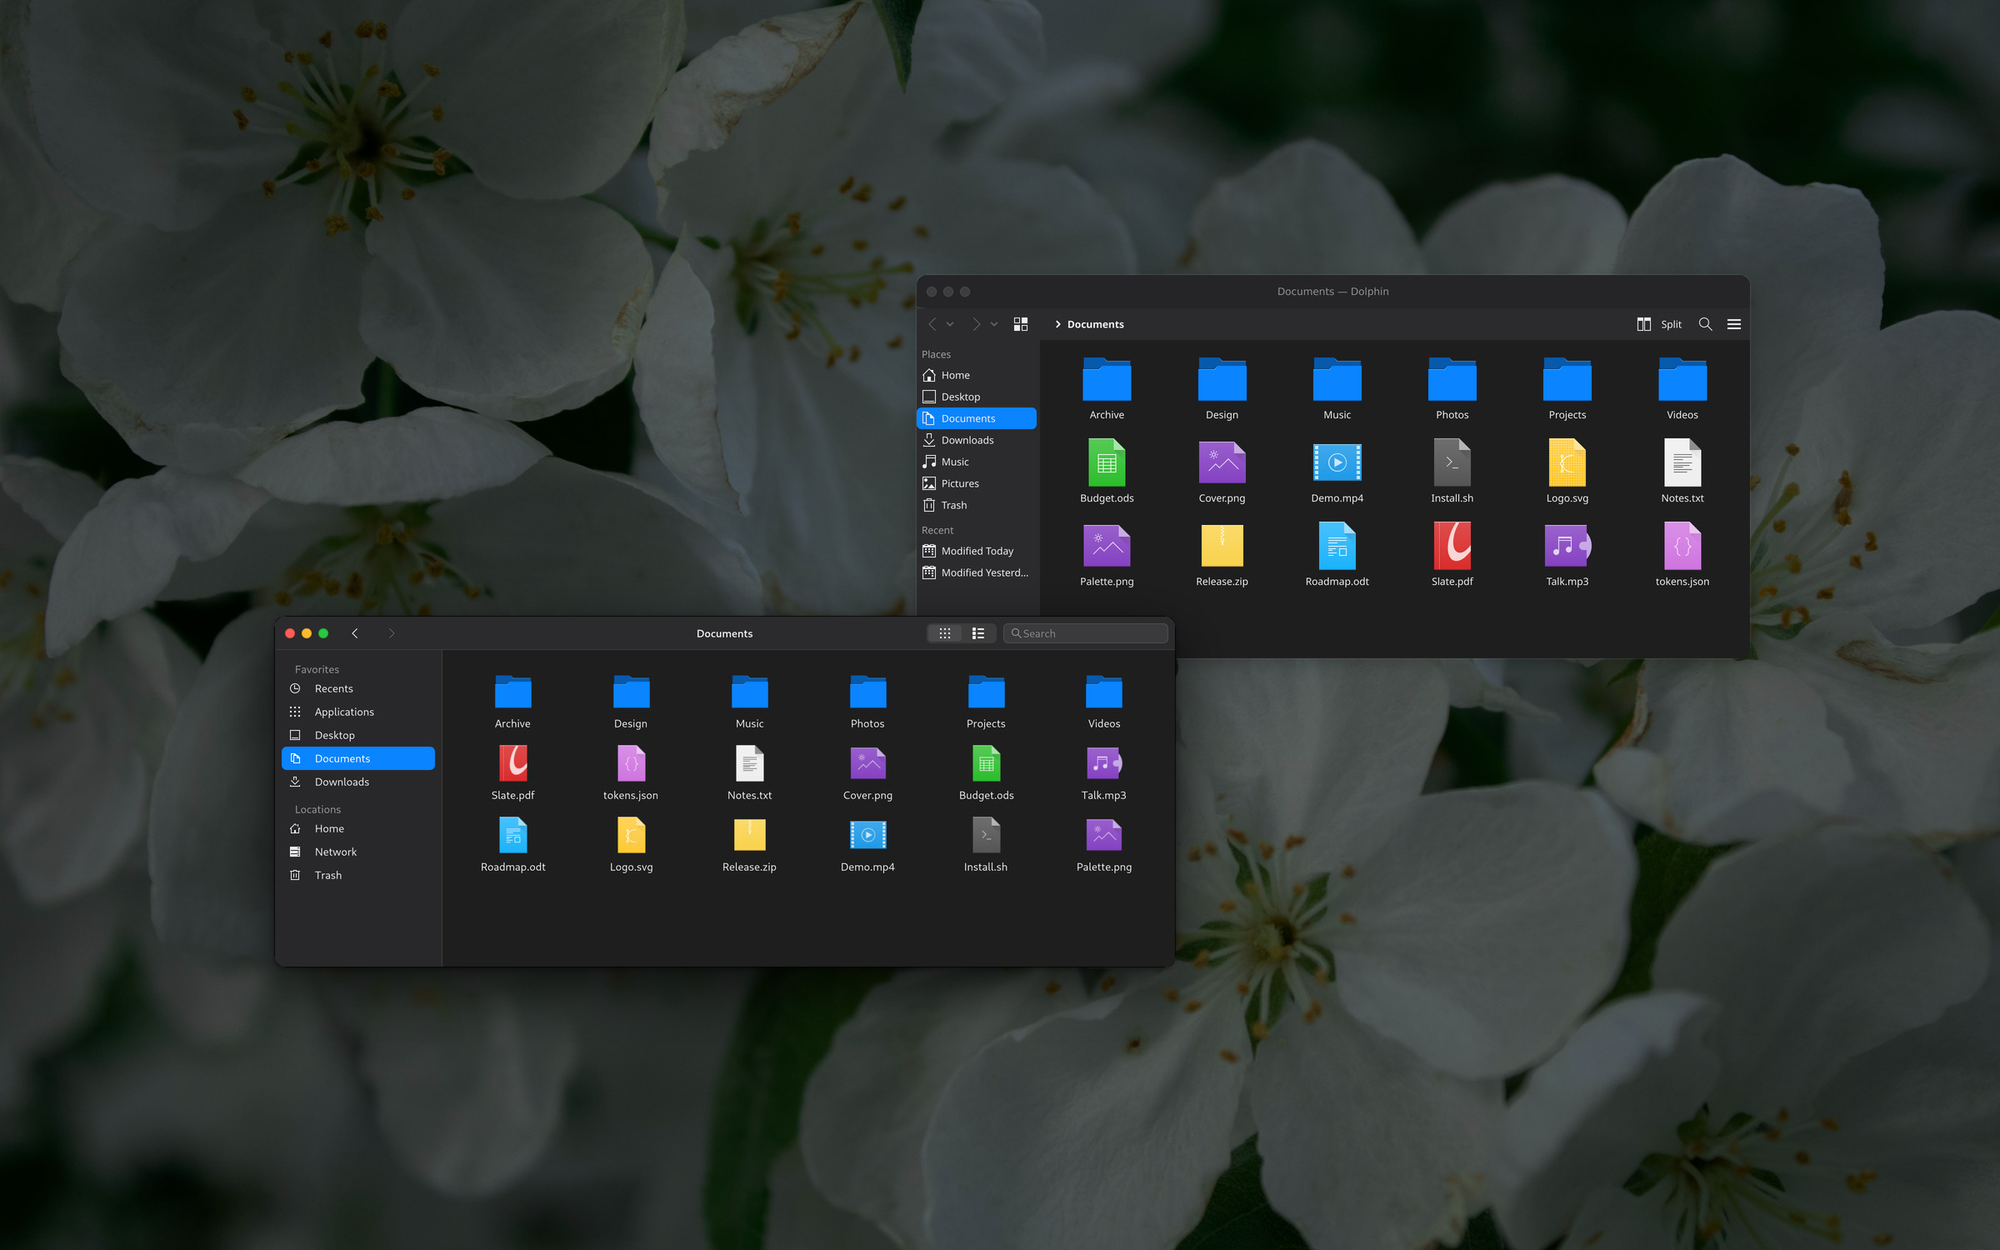
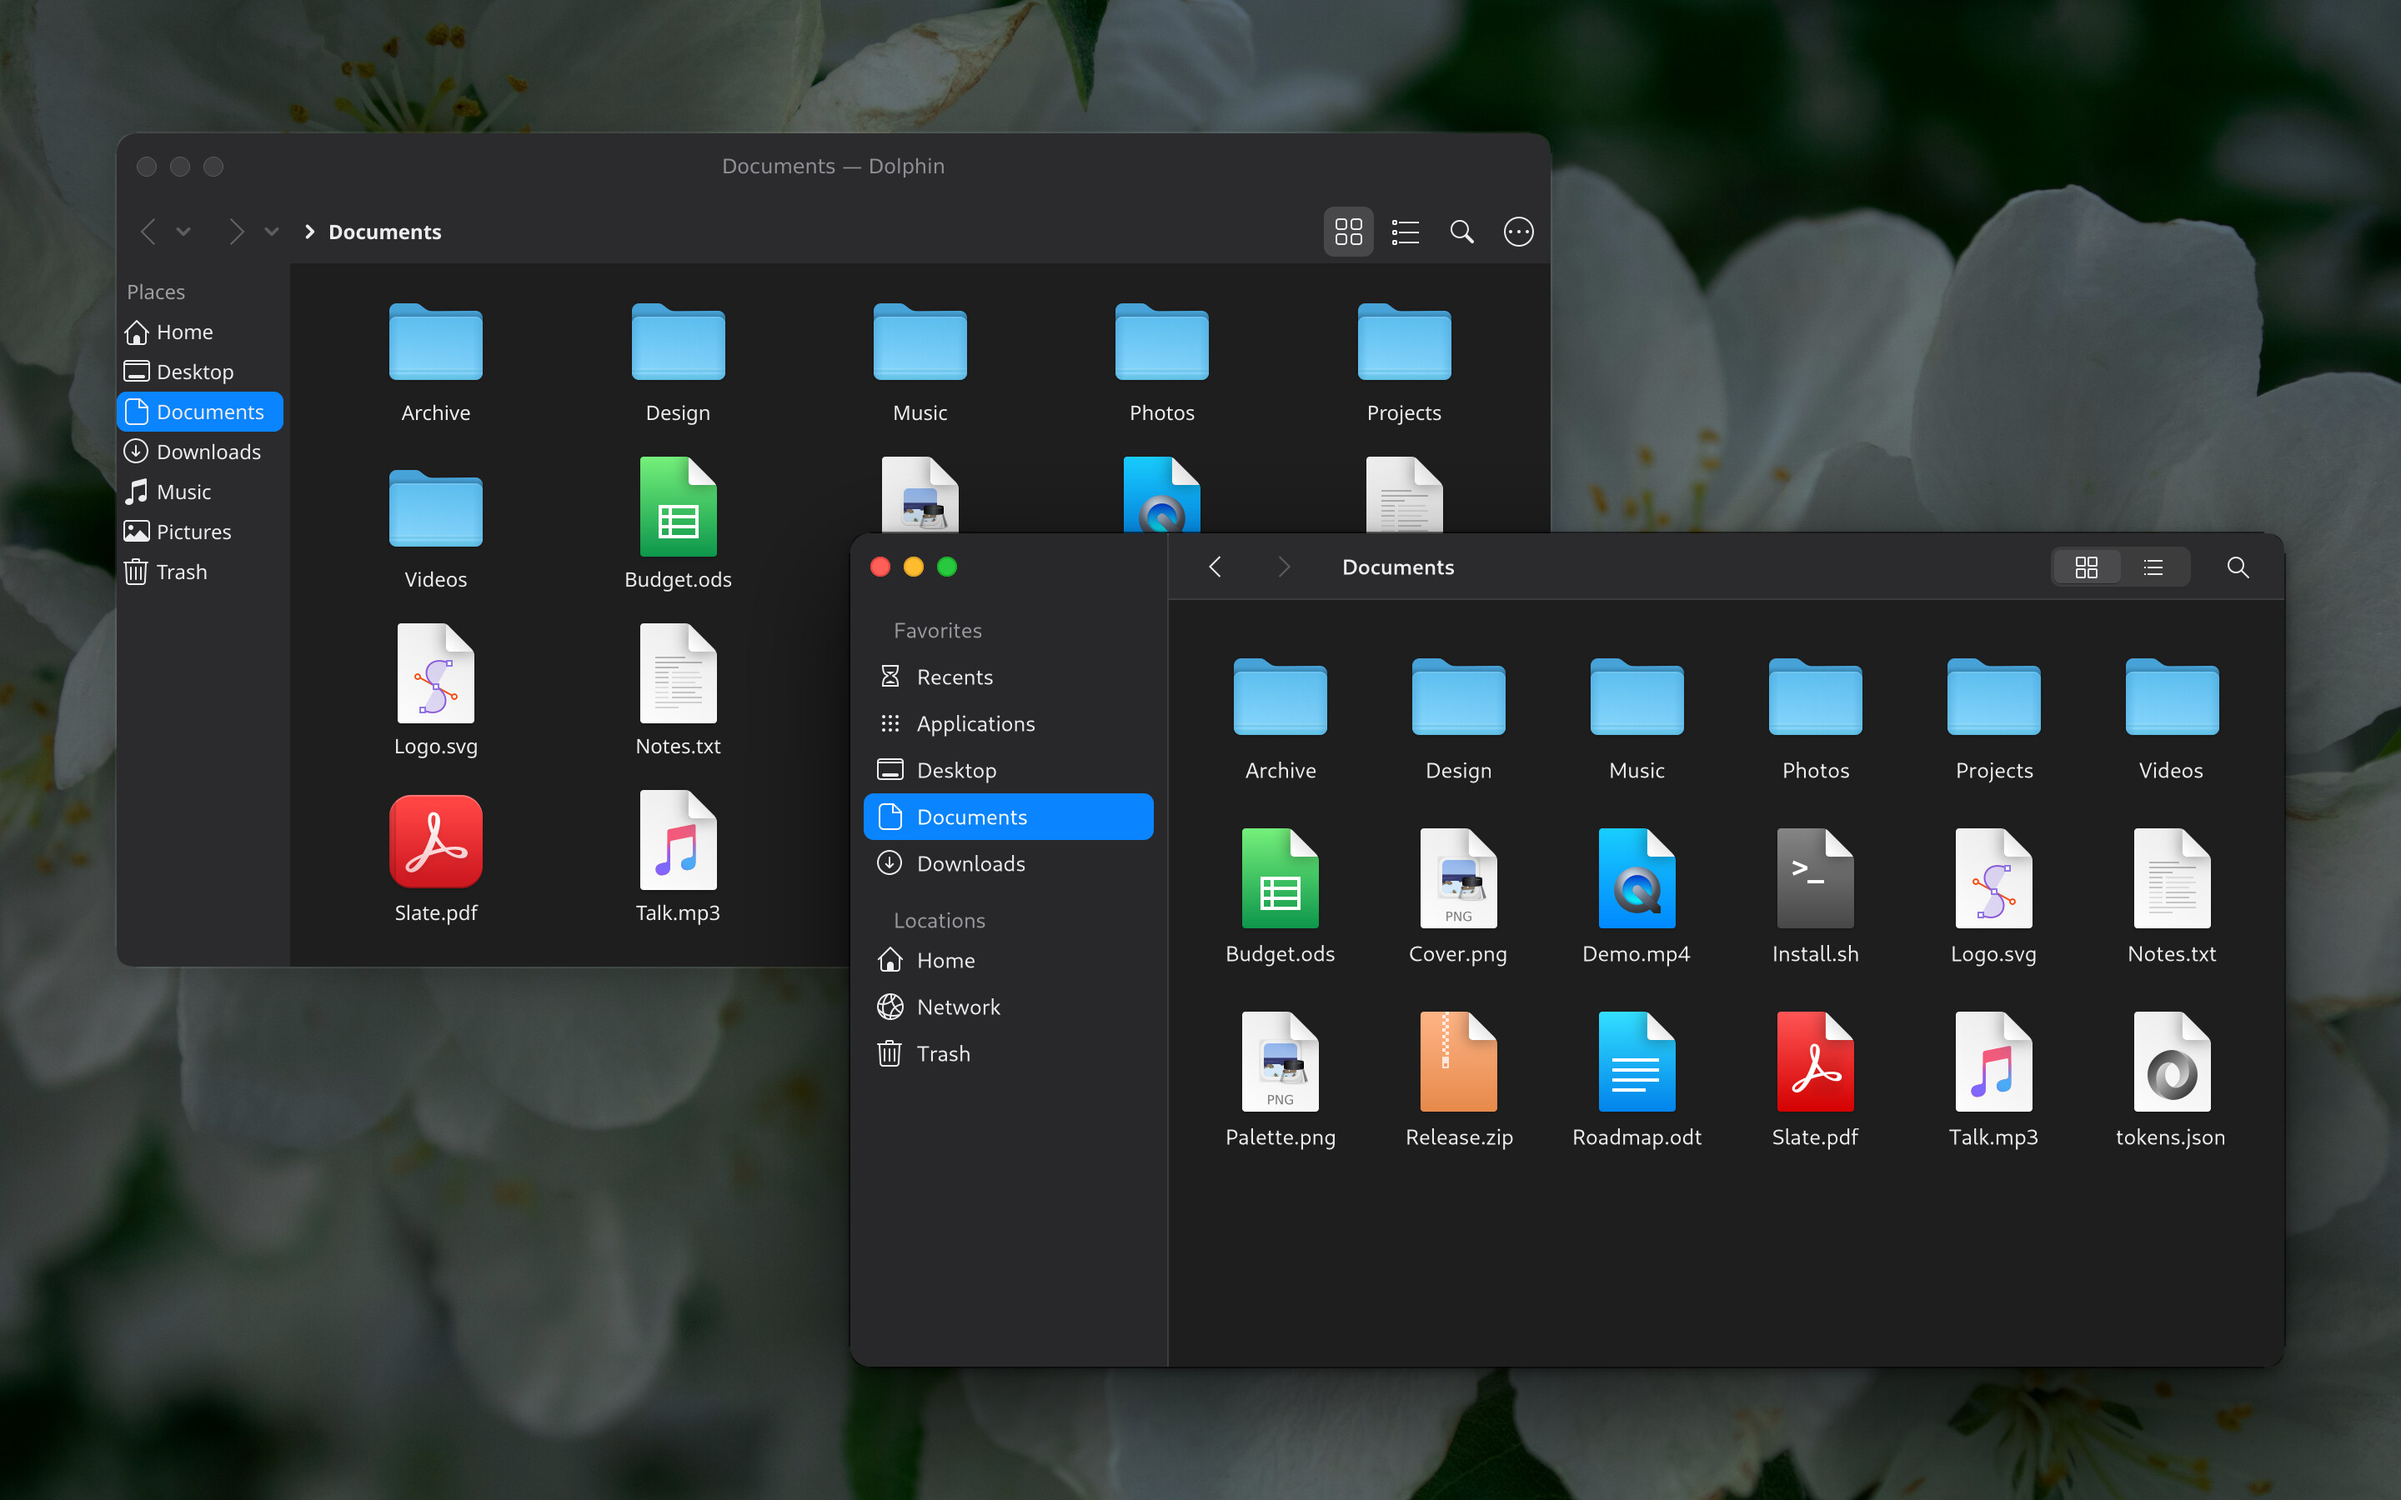
Reshoot the cover as two Finder-style windows
The old cover had short, wide windows, Breeze icons, a washed-out
photo, and a Dolphin with a status bar and a Recent group. The cover
is now the 1440 x 900 middle of the screen at 2x, on the blossom photo
in its own tone, with WhiteSur icons in both apps.

The GTK4 window follows Finder: the sidebar runs the full height under
the traffic lights, and the toolbar holds back, forward, the bold
folder name, the view switch and search. Dolphin gets Finder's toolbar
buttons, 64 px icons, no status bar, and 16 px Places icons, because
KIO sizes the Places panel for 16 px icons and clipped the labels.

diff --git a/scripts/shoot/place.js b/scripts/shoot/place.js
@@ -5,9 +5,9 @@
 // shoot.sh replaces __LAYOUT__ with window (center each window) or hero (overlap two).
 const SCREEN = { w: 2400, h: 1500 };
 const layout = "__LAYOUT__";
-// first window (Dolphin, behind) top-right, second (GTK4, in front and focused) bottom-left
-// Dolphin gets a fixed size so all 18 files fit without a scrollbar
-const HERO_SLOTS = [{ right: 300, y: 330, w: 1000, h: 460 }, { x: 330, bottom: 340 }];
+// Inside the 1440 x 900 cover crop at (480, 300): Dolphin behind at the top left,
+// the GTK4 window in front (focused) at the bottom right, both the same Finder size.
+const HERO_SLOTS = [{ x: 550, y: 380, w: 860, h: 500 }, { x: 990, y: 620, w: 860, h: 500 }];
 let slot = 0;
 
 function geo(w) {

diff --git a/scripts/shoot/showcase-gtk4.py b/scripts/shoot/showcase-gtk4.py
@@ -1,15 +1,17 @@
 #!/usr/bin/env python3
-"""A Finder-like GTK4 window for the README cover: python3 showcase-gtk4.py [--dark]."""
+"""A Finder-like GTK4 window for the README cover: python3 showcase-gtk4.py.
+
+Finder layout: the sidebar runs the full window height with the traffic lights on top of it, and the
+toolbar (back, forward, bold folder title, view switch, search) sits over the file grid only.
+"""
 import sys
 
 import gi
 
 gi.require_version("Gtk", "4.0")
-from gi.repository import Gdk, GLib, Gtk
+from gi.repository import GLib, Gtk
 
 GLib.set_prgname("org.slate.Showcase")
-DARK = "Dark" in GLib.getenv("GTK_THEME") if GLib.getenv("GTK_THEME") else False
-ACCENT = "#0A84FF" if DARK else "#007AFF"  # tokens.json accent
 
 SIDEBAR = [
     ("Favorites", None),
@@ -23,14 +25,16 @@ SIDEBAR = [
     ("Network", "network-workgroup-symbolic"),
     ("Trash", "user-trash-symbolic"),
 ]
+# same files and order as the Dolphin window behind it (Dolphin sorts folders first, then by name)
 FILES = [
     ("Archive", "folder"), ("Design", "folder"), ("Music", "folder"),
     ("Photos", "folder"), ("Projects", "folder"), ("Videos", "folder"),
-    ("Slate.pdf", "application-pdf"), ("tokens.json", "application-json"), ("Notes.txt", "text-plain"),
-    ("Cover.png", "image-png"), ("Budget.ods", "x-office-spreadsheet"), ("Talk.mp3", "audio-mpeg"),
-    ("Roadmap.odt", "x-office-document"), ("Logo.svg", "image-svg+xml"), ("Release.zip", "application-zip"),
-    ("Demo.mp4", "video-mp4"), ("Install.sh", "application-x-shellscript"), ("Palette.png", "image-png"),
+    ("Budget.ods", "x-office-spreadsheet"), ("Cover.png", "image-png"), ("Demo.mp4", "video-mp4"),
+    ("Install.sh", "application-x-shellscript"), ("Logo.svg", "image-svg+xml"), ("Notes.txt", "text-plain"),
+    ("Palette.png", "image-png"), ("Release.zip", "application-zip"), ("Roadmap.odt", "x-office-document"),
+    ("Slate.pdf", "application-pdf"), ("Talk.mp3", "audio-mpeg"), ("tokens.json", "application-json"),
 ]
+SIDEBAR_W = 190
 
 
 def sidebar():
@@ -39,69 +43,62 @@ def sidebar():
     for name, icon in SIDEBAR:
         if icon is None:
             label = Gtk.Label(label=name, xalign=0, css_classes=["dim-label", "caption-heading"],
-                              margin_top=10, margin_start=8)
-            row = Gtk.ListBoxRow(child=label, selectable=False, activatable=False)
-        else:
-            line = Gtk.Box(spacing=8)
-            line.append(Gtk.Image(icon_name=icon))
-            line.append(Gtk.Label(label=name, xalign=0))
-            row = Gtk.ListBoxRow(child=line)
-            if name == "Documents":
-                selected = row
+                              margin_top=12 if name != "Favorites" else 2, margin_bottom=2, margin_start=10)
+            box.append(Gtk.ListBoxRow(child=label, selectable=False, activatable=False))
+            continue
+        line = Gtk.Box(spacing=0)
+        line.append(Gtk.Image(icon_name=icon))
+        line.append(Gtk.Label(label=name, xalign=0))
+        row = Gtk.ListBoxRow(child=line)
+        if name == "Documents":
+            selected = row
         box.append(row)
     box.select_row(selected)
-    pane = Gtk.ScrolledWindow(child=box, width_request=200, css_classes=["sidebar-pane"],
-                              hscrollbar_policy=Gtk.PolicyType.NEVER)
+    bar = Gtk.HeaderBar(title_widget=Gtk.Box(), decoration_layout="close,minimize,maximize:")
+    pane = Gtk.Box(orientation=Gtk.Orientation.VERTICAL, width_request=SIDEBAR_W, css_classes=["sidebar-pane"])
+    pane.append(bar)
+    pane.append(Gtk.ScrolledWindow(child=box, vexpand=True, hscrollbar_policy=Gtk.PolicyType.NEVER))
     return pane
 
 
-def accent_icon(path):
-    """Breeze icon as a texture, with Breeze blue replaced by the Slate accent, as KDE does for Dolphin."""
-    svg = open(path).read().replace("#3daee9", ACCENT)
-    return Gdk.Texture.new_from_bytes(GLib.Bytes.new(svg.encode()))
-
-
-def content():
-    grid = Gtk.FlowBox(max_children_per_line=6, min_children_per_line=6, row_spacing=4, column_spacing=12,
-                       homogeneous=True, selection_mode=Gtk.SelectionMode.SINGLE,
-                       margin_top=20, margin_bottom=20, margin_start=20, margin_end=20, valign=Gtk.Align.START)
-    theme = Gtk.IconTheme.get_for_display(grid.get_display())
-    for i, (name, icon) in enumerate(FILES):
-        tile = Gtk.Box(orientation=Gtk.Orientation.VERTICAL, spacing=6, margin_top=6, margin_bottom=6)
-        # load the icon file as a picture: GTK recolors Breeze's ColorScheme icons into flat glyphs,
-        # Dolphin shows them in full colour, and the cover must show the same icons in both apps
-        path = theme.lookup_icon(icon, None, 64, 1, Gtk.TextDirection.NONE, 0).get_file().get_path()
-        tile.append(Gtk.Image(paintable=accent_icon(path), pixel_size=48))
-        tile.append(Gtk.Label(label=name, ellipsize=3, max_width_chars=12))
-        grid.append(tile)
-        if i == 3:
-            grid.select_child(grid.get_child_at_index(i))
-    return Gtk.ScrolledWindow(child=grid, css_classes=["view"], hexpand=True)
-
-
-def headerbar():
-    bar = Gtk.HeaderBar(title_widget=Gtk.Label(label="Documents", css_classes=["title"]))
-    nav = Gtk.Box(spacing=4)
+def toolbar():
+    bar = Gtk.HeaderBar(title_widget=Gtk.Box(), decoration_layout=":")
+    nav = Gtk.Box(spacing=2)
     nav.append(Gtk.Button(icon_name="go-previous-symbolic", css_classes=["flat"]))
     nav.append(Gtk.Button(icon_name="go-next-symbolic", css_classes=["flat"], sensitive=False))
     bar.pack_start(nav)
-    search = Gtk.SearchEntry(placeholder_text="Search", width_chars=16)
-    bar.pack_end(search)
+    bar.pack_start(Gtk.Label(label="Documents", css_classes=["heading"], margin_start=6))
+    bar.pack_end(Gtk.Button(icon_name="system-search-symbolic", css_classes=["flat"]))
     views = Gtk.Box(css_classes=["linked"])
     grid_btn = Gtk.ToggleButton(icon_name="view-grid-symbolic", active=True)
-    list_btn = Gtk.ToggleButton(icon_name="view-list-symbolic", group=grid_btn)
     views.append(grid_btn)
-    views.append(list_btn)
+    views.append(Gtk.ToggleButton(icon_name="view-list-symbolic", group=grid_btn))
     bar.pack_end(views)
     return bar
 
 
+def content():
+    grid = Gtk.FlowBox(max_children_per_line=6, min_children_per_line=6, row_spacing=10, column_spacing=8,
+                       homogeneous=True, selection_mode=Gtk.SelectionMode.SINGLE,
+                       margin_top=18, margin_bottom=18, margin_start=18, margin_end=18, valign=Gtk.Align.START)
+    for name, icon in FILES:
+        tile = Gtk.Box(orientation=Gtk.Orientation.VERTICAL, spacing=4, margin_top=4, margin_bottom=4)
+        tile.append(Gtk.Image(icon_name=icon, pixel_size=64))
+        tile.append(Gtk.Label(label=name, ellipsize=3, max_width_chars=12))
+        grid.append(tile)
+    pane = Gtk.Box(orientation=Gtk.Orientation.VERTICAL, hexpand=True)
+    pane.append(toolbar())
+    pane.append(Gtk.ScrolledWindow(child=grid, css_classes=["view"], vexpand=True,
+                                   hscrollbar_policy=Gtk.PolicyType.NEVER))
+    return pane
+
+
 def on_activate(app):
-    paned = Gtk.Paned(start_child=sidebar(), end_child=content(), position=200,
+    paned = Gtk.Paned(start_child=sidebar(), end_child=content(), position=SIDEBAR_W,
                       shrink_start_child=False, resize_start_child=False)
-    win = Gtk.ApplicationWindow(application=app, title="Documents", default_width=1080, default_height=420,
+    win = Gtk.ApplicationWindow(application=app, title="Documents", default_width=860, default_height=540,
                                 child=paned)
-    win.set_titlebar(headerbar())
+    win.set_titlebar(Gtk.Box(visible=False))  # no window-wide title bar: each pane has its own
     win.present()
 
 

diff --git a/README.md b/README.md
@@ -293,4 +293,5 @@ GPL-2.0-only. See [COPYING](COPYING).
 
 The wallpaper in the screenshots (`assets/wallpaper.jpg`) is an apple blossom photo
 from [Unsplash](https://images.unsplash.com/photo-1653265797984-1e2d12ea1048), used under
-the Unsplash License.
+the Unsplash License. The cover uses the [WhiteSur](https://github.com/vinceliuice/WhiteSur-icon-theme)
+icon theme (GPL-3.0); Slate does not ship icons.
